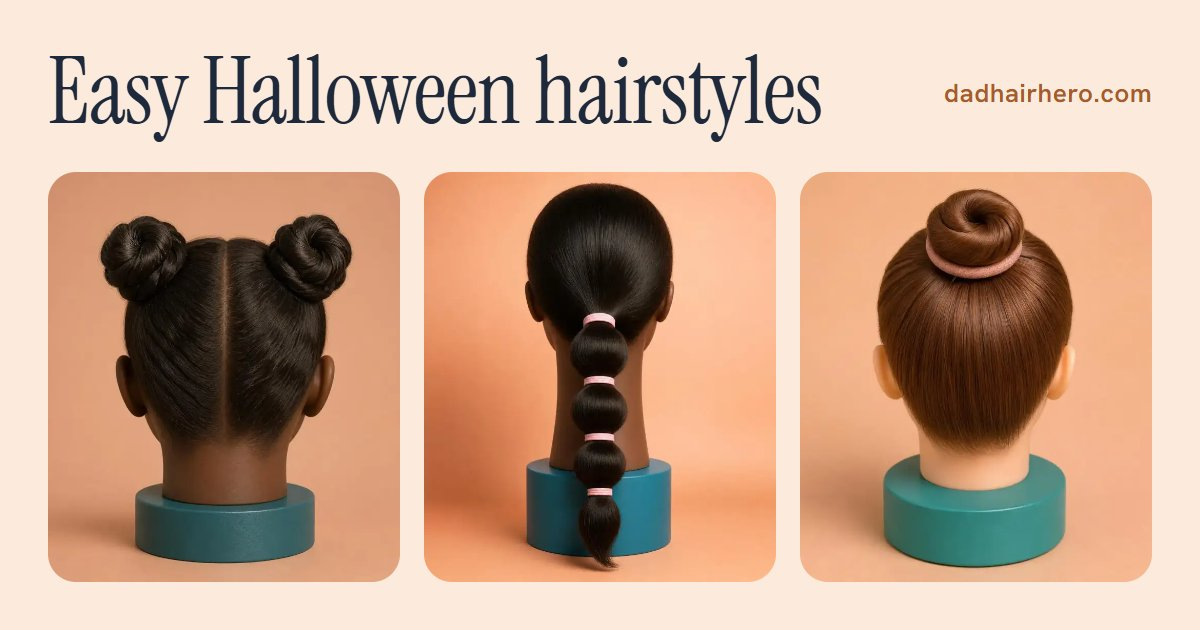
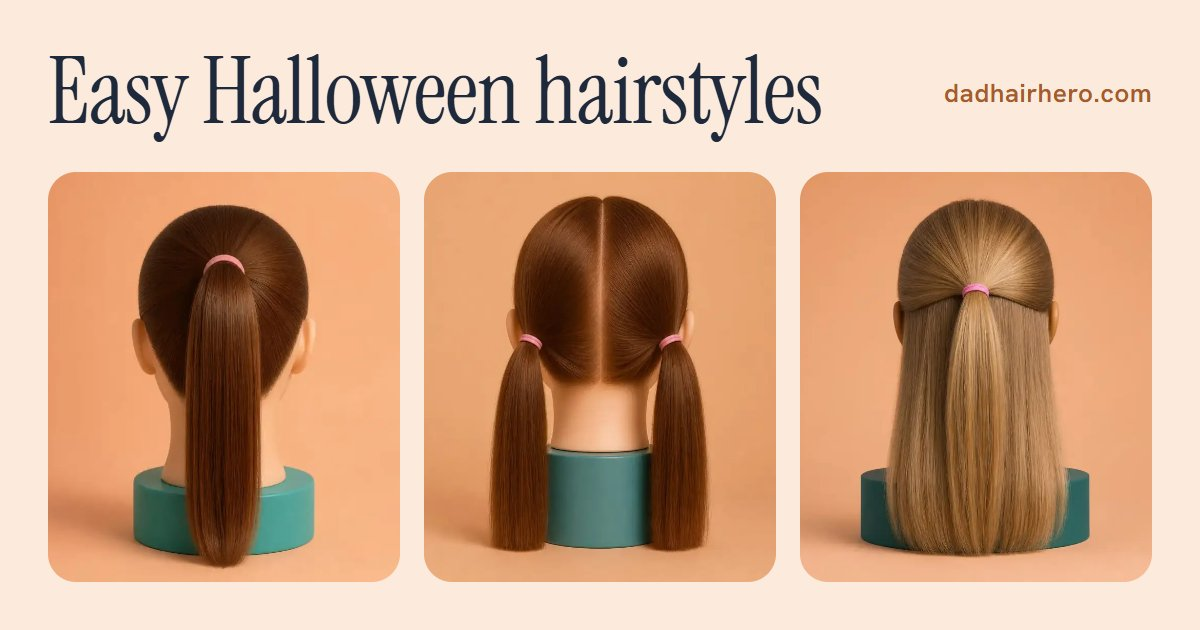
Halloween guide leads with free styles
Four looks from free styles first, each with every step on its own page:
a tail from High Ponytail, scarecrow or rag doll bunches, Half-Up,
Half-Down under a witch's hat or ears on a headband, and Clip-Back for
Baby Wisps in the toddler section beside the under-three line. Space buns
and witch plaits follow under "More looks in Beyond the Ponytail", marked
as pack styles; bubble ponytail, top knot and criss-cross bands are gone.

The opening, title descriptions, ItemList (free looks only), style-page
lines, Party hub line, share collage and pin now use the free looks. The
build stops if a look's section no longer matches whether its style is in
the pack, and check-site fails if the ItemList names a style without steps.

diff --git a/src/lib/site.js b/src/lib/site.js
@@ -151,7 +151,7 @@ export const HUBS = [
     techniques: ['making-a-part', 'holding-tension'],
     fixes: ['entry-looks-wrong'],
     // Near the top of the hub: the seasonal guide built from these styles.
-    guide: { kind: 'halloween-hair', lead: 'For Halloween:', link: 'five easy Halloween hairstyles', after: ', from cat ears to a witch\'s plaits.' },
+    guide: { kind: 'halloween-hair', lead: 'For Halloween:', link: 'easy Halloween hairstyles', after: ', from a unicorn tail to scarecrow bunches, free step by step.' },
     ctaHeading: 'Practise it first, in the app',
     cta: 'Dad Hair Hero keeps a diary of what you have done and how it went, so the party style is one you have already tried. Free, no account, no tracking.',
   },
@@ -161,16 +161,21 @@ export const hubByKind = (kind) => HUBS.find((hub) => hub.kind === kind);
 
 // ─── Seasonal guides ─────────────────────────────────────────────────────────
 //
-// Halloween: five looks, each one a style the app already has. The address
-// has no year in it, so the page builds up over seasons; each September,
-// refresh the wording and dateModified and keep the address.
+// Halloween: looks made from styles the app already has, described as looks
+// and never as characters. The free styles come first, with every step on
+// this site; a toddler look follows, then two more from Beyond the Ponytail,
+// marked as pack styles. The address has no year in it, so the page builds
+// up over seasons; each September, refresh the wording and dateModified and
+// keep the address.
 //
 // The sentences are the guide's own, written in UK English and passed
 // through t() for the US page, except where the two are searched for in
-// different words (title, description, opening). How each look goes is
-// told from the style's own description and step titles, the only parts of
-// a pack style the export carries. The Fix It answers are read from the
-// export by node id, so they are always the app's own words.
+// different words (title, description, opening). How a free look goes is
+// told from its steps; a pack look from its description and step titles,
+// the only parts of a pack style the export carries. The "for the evening"
+// lines are adapted from each style's make-it-last line in the app, with
+// nothing added. The Fix It answers are read from the export by node id, so
+// they are always the app's own words.
 
 export const HALLOWEEN = {
   kind: 'halloween-hair',
@@ -182,26 +187,70 @@ export const HALLOWEEN = {
     us: 'Easy Halloween hairstyles for girls | Dad Hair Hero',
   },
   description: {
-    uk: 'Halloween hairstyles for girls: cat ears, witch plaits and more, each from one simple style in 5 to 15 minutes. The Dad Hair Hero app is free.',
-    us: 'Easy Halloween hairstyles for girls: cat ears, witch braids and more, each from one simple style in 5 to 15 minutes. The Dad Hair Hero app is free.',
+    uk: 'Halloween hairstyles for girls: a unicorn tail, scarecrow bunches and more, each from one simple style in 6 minutes or less. Every step free.',
+    us: 'Easy Halloween hairstyles for girls: a unicorn tail, scarecrow pigtails and more, each from one simple style in 6 minutes or less. Every step free.',
   },
   // The first two sentences answer the search.
   lede: {
-    uk: 'Five easy Halloween hairstyles for girls, each made from one simple style and done in 5 to 15 minutes. They are written for anyone who hasn\'t done much hair: what each look is, how long it takes and how it goes.',
-    us: 'Five easy Halloween hairstyles for girls, each made from one simple style and done in 5 to 15 minutes. They are written for anyone who hasn\'t done much hair: what each look is, how long it takes and how it goes.',
+    uk: 'Four easy Halloween hairstyles for girls, each made from one simple style in 6 minutes or less, with every step free on this site and in the Dad Hair Hero app. They are written for anyone who hasn\'t done much hair, and two more looks from the app\'s optional pack come after them.',
+    us: 'Four easy Halloween hairstyles for girls, each made from one simple style in 6 minutes or less, with every step free on this site and in the Dad Hair Hero app. They are written for anyone who hasn\'t done much hair, and two more looks from the app\'s optional pack come after them.',
   },
   intro: {
-    uk: 'Easy Halloween hair for kids starts from styles you may already know: buns, plaits, bunches and a ponytail. The costume does the rest, so none of these needs a wig, and each one has a line on making it last the evening.',
-    us: 'Halloween hairstyles for kids can start from styles you may already know: buns, braids, pigtails and a ponytail. The costume does the rest, so none of these needs a wig, and each one has a line on making it last the evening.',
+    uk: 'Easy Halloween hair for kids starts from styles you may already know: a ponytail, bunches and a half-up. The costume does the rest, so none of these needs a wig, and each one has a line on making it last the evening.',
+    us: 'Halloween hairstyles for kids can start from styles you may already know: a ponytail, pigtails and a half-up. The costume does the rest, so none of these needs a wig, and each one has a line on making it last the evening.',
   },
-  // The 1200×630 collage and the 2:3 pin are made by scripts/render-pins.mjs.
+  // The 1200×630 collage and the 2:3 pin are made by scripts/render-pins.mjs,
+  // from the first three free looks.
   ogImage: '/images/guides/halloween-hairstyles-1200x630.jpg',
   ogImageSize: { width: 1200, height: 630 },
   datePublished: '2026-10-15',
   dateModified: '2026-10-15',
-  // `idea` is the line on the style's own page: "A Halloween idea: …".
+  // `section`: 'free' looks lead the page, 'toddler' sits with the under-three
+  // line, 'pack' is "More looks in Beyond the Ponytail". `idea` is the line
+  // on the style's own page: "A Halloween idea: …".
   looks: [
     {
+      section: 'free',
+      anchor: 'animal-tail',
+      styleId: 'high-ponytail',
+      heading: 'A horse, lion or unicorn tail from a high ponytail',
+      alt: 'all the hair gathered into one ponytail at the very top of the head, back view',
+      how: 'Sweep all the hair up to the very top of her head and check it sits right at the crown. Smooth the sides up to your holding hand with a soft brush, then loop the elastic around at least four times, asking her after the third wrap whether it feels tight.',
+      last: 'Very clean, silky hair slides out of an elastic. A light mist of water before you gather gives it grip for the evening.',
+      idea: 'a high ponytail makes a tail for a horse, a lion or a unicorn.',
+    },
+    {
+      section: 'free',
+      anchor: 'scarecrow-bunches',
+      styleId: 'two-even-bunches',
+      heading: 'Scarecrow or rag doll bunches',
+      alt: 'hair parted down the middle into two ponytails, one each side level with the ears, back view',
+      how: 'Draw a centre parting from her hairline to the back of her neck and lay one side over her shoulder. Gather each side level with the top of her ear, holding both at once so they match, and wrap each elastic at least three times. Check from the front that they are level.',
+      last: 'Sit the bunches above her ears, not behind them, so a car seat on the way doesn\'t rub them loose.',
+      idea: 'two even bunches for a scarecrow or a rag doll.',
+    },
+    {
+      section: 'free',
+      anchor: 'under-a-hat',
+      styleId: 'half-up-half-down',
+      heading: 'Half-up, half-down under a witch\'s hat or ears on a headband',
+      alt: 'the top half of the hair gathered high on the back of the head, the bottom half loose, back view',
+      how: 'Part the hair from ear to ear across the top of her head and gather everything above the line. Smooth the sides back, loop an elastic around it at least three times high on the back of her head, and let the bottom half hang loose.',
+      last: 'The loose half tangles first. Brush it through when you get home, before it knots against her collar.',
+      idea: 'a half-up, half-down under a witch\'s hat, or with ears on a headband.',
+    },
+    {
+      section: 'toddler',
+      anchor: 'toddler-wisps',
+      styleId: 'clip-back-baby-wisps',
+      heading: 'Wisps clipped back for a toddler\'s costume',
+      alt: 'fine wisps at the front swept back and held with one soft snap clip, side view',
+      how: 'Dampen the front wisps with a wet comb and sweep them back off her forehead without pulling. Slide a fabric-lined clip over them, front to back, with a finger underneath as it snaps shut.',
+      last: 'Clip the wisps while they are still a little damp. They dry flat under the clip and hold it in.',
+      idea: 'clip the wisps back for a toddler\'s costume.',
+    },
+    {
+      section: 'pack',
       anchor: 'cat-ears',
       styleId: 'space-buns',
       heading: 'Cat, bear or mouse ears from space buns',
@@ -211,40 +260,14 @@ export const HALLOWEEN = {
       idea: 'two space buns make cat, bear or mouse ears.',
     },
     {
+      section: 'pack',
       anchor: 'witch-plaits',
       styleId: 'plaited-pigtails',
-      heading: 'Witch or pioneer plaits from plaited bunches',
+      heading: 'Witch plaits from plaited bunches',
       alt: 'two three-strand plaits, one each side of a centre parting, back view',
       how: 'Draw a centre parting and move the right side clear. Gather and plait the left side, plait the right side to match, then check both sides together.',
       last: 'Plaits survive a night\'s sleep, so an evening of trick-or-treating is no trouble.',
-      idea: 'two plaits for a witch or a pioneer.',
-    },
-    {
-      anchor: 'animal-tail',
-      styleId: 'bubble-ponytail',
-      heading: 'An animal tail from a bubble ponytail',
-      alt: 'a ponytail with elastics spaced down its length and a rounded bubble between each, back view',
-      how: 'Make a ponytail, then add elastics evenly down its length and pinch each gap outward into a rounded bubble. Repeat to the end and even them up.',
-      last: 'Pull the bubbles a little fuller than looks right: they settle flatter as the evening goes on.',
-      idea: 'a bubble ponytail makes a tail for any animal costume.',
-    },
-    {
-      anchor: 'ballerina-bun',
-      styleId: 'top-knot',
-      heading: 'A ballerina or princess bun from a top knot',
-      alt: 'all the hair wound into one bun at the very top of the head, back view',
-      how: 'Gather all the hair to the very top of her head and secure it with an elastic. Twist the ponytail into a rope, wind it around the base, then secure it with a second elastic and pin any loose ends.',
-      last: 'Hair washed the day before holds a bun better than freshly washed hair. Take the bun down at bedtime.',
-      idea: 'a top knot for a ballerina or a princess.',
-    },
-    {
-      anchor: 'under-a-hat',
-      styleId: 'criss-cross-bands',
-      heading: 'Criss-cross bands under a hat or ears',
-      alt: 'rows of small banded bunches joined diagonally into a lattice down the head, back view',
-      how: 'Small bunches are banded in rows and joined diagonally with their neighbours. Make the front row, split and cross each bunch into the next row, add one more row, then finish the ends and check the edges.',
-      last: 'It can last a few days, so it will see out the evening. Take it out sooner if she says it feels tight or sore.',
-      idea: 'criss-cross bands under a hat or a pair of ears.',
+      idea: 'two plaits for a witch.',
     },
   ],
   // If it goes wrong: the question is the guide's, the answer is the Fix It

diff --git a/pins/README.md b/pins/README.md
@@ -21,4 +21,4 @@ upload (Edit Pin > Alt text).
 
 ### batch-1.csv
 
-1. halloween-hair-in-ten-minutes.png: Three mannequin heads from behind wearing space buns, a bubble ponytail and a top knot, under the headline Halloween hair in ten minutes.
+1. halloween-hair-in-ten-minutes.png: Three mannequin heads from behind wearing a high ponytail, two even pigtails and a half-up, half-down, under the headline Halloween hair in ten minutes.
